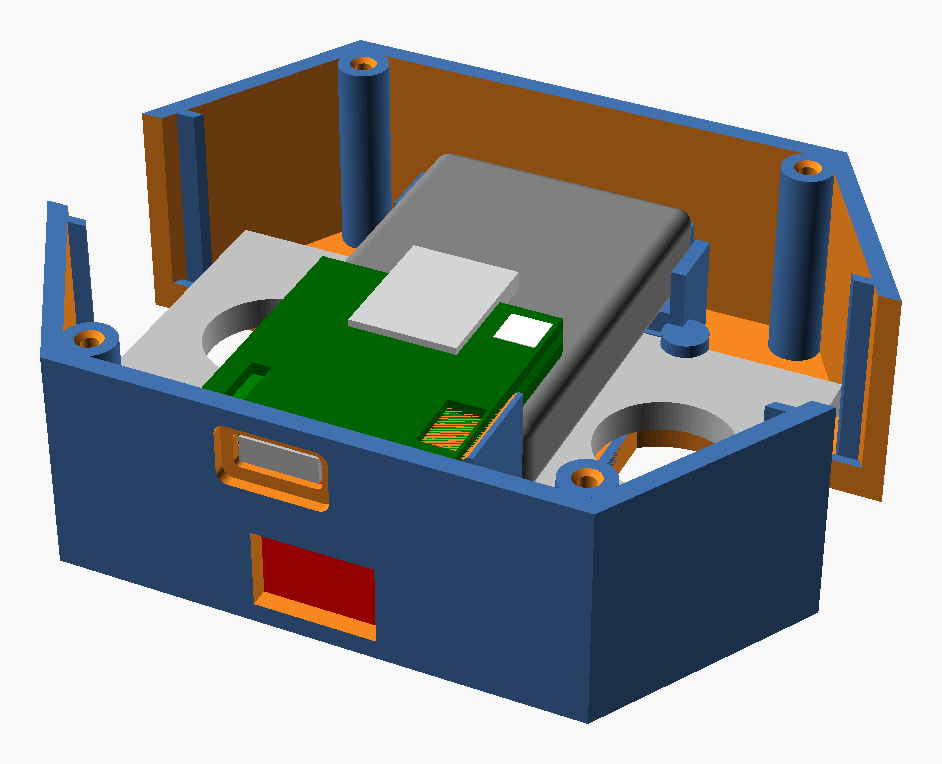
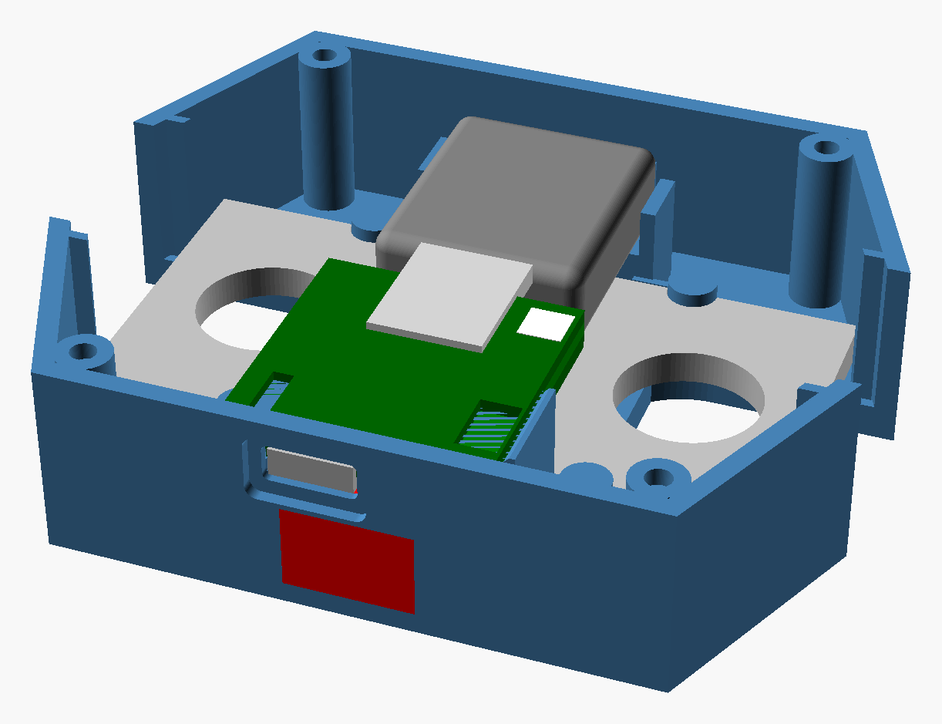
docs: match the book to case v3.2.0, firmware main and app v0.5.0 (#11)
* docs: list the battery for each case release

* docs: list the lid screws for each case release

* docs: describe the battery and wire placement for each V3 case

* docs: name case v3.2.0 for the 800 mAh battery and self-tapping screws

* docs: describe case v3.2.0 and re-render its model

* docs: describe the flash-only runner and the mock firmware build

* docs: describe the app v0.5.0 calibration check and point steps

diff --git a/src/assembly/crimpdeq/index.md b/src/assembly/crimpdeq/index.md
@@ -15,10 +15,14 @@ Most assembly steps are the same for PCB V1, V2, and V3. The main differences ar
 - [Crimpdeq 3D-printed case](./case.md) that matches your PCB revision
 - WH-C07 load cell, or a compatible load cell with similar dimensions
   - You can salvage one from a [crane scale](https://www.aliexpress.com/item/1005002719645426.html) ([Amazon alternative](https://www.amazon.es/dp/B08133JCM6)) or buy it separately.
-- [3.7 V, 2000 mAh LiPo battery](https://www.aliexpress.us/item/3256809404408618.html)
+- 3.7 V LiPo battery sized for your case release:
+  - Case `v3.1.0` and earlier: [2000 mAh, 10 × 34 × 50 mm](https://www.aliexpress.us/item/3256809404408618.html)
+  - Case `v3.2.0`: 800 mAh 102530, 10 × 25 × 30 mm, with both leads leaving one 25 mm end
 - [KCD11 two-terminal switch](https://www.aliexpress.us/item/2255800787248498.html)
 - Insulated hookup wire and heat-shrink tubing
-- 4 × M2.5 screws (M2.5×10 for the V3 case)
+- 4 screws for the lid:
+  - Case `v3.1.0` and earlier: M2.5 screws (M2.5×10 for the V3 case)
+  - Case `v3.2.0`: countersunk Phillips self-tapping screws sold as M2.5×10, measuring 2.4 mm across the thread, 4.8 mm across the head and 10.3 mm overall
 
 ### Tools
 
@@ -149,11 +153,19 @@ Resolve any unexpected short or open connection before proceeding.
 In the V3 case, the front wall is the one with the USB-C and switch openings.
 
 1. Place the load cell in the main body with the white strain-gauge cover facing up and its wires toward the front wall.
-2. Route the load-cell wires under the battery position to the front of the case, where the load-cell pads will sit.
-3. Place the battery on top of the load cell, with its leads at the rear. Run the leads up behind the battery and forward along its side to the `B-` and `B+` pads.
+2. Route the load-cell wires to the front of the case, where the load-cell pads will sit:
+   - Case `v3.1.0` and earlier: run them under the battery position.
+   - Case `v3.2.0`: run them forward from the strain-gauge cover, in front of the battery, then along the outer side of the support column nearest the load-cell pads.
+3. Place the battery with its leads at the rear:
+   - Case `v3.1.0` and earlier: lay it flat on top of the load cell.
+   - Case `v3.2.0`: set its rear end on the two pads behind the load cell; its front rests on the strain-gauge cover.
+
+   Run the leads up behind the battery and forward along its side to the `B-` and `B+` pads.
 4. Press the KCD11 switch into the switch opening.
 5. Hold the PCB with the ESP32-C3 module and LEDs facing up. Tilt it to insert the USB-C connector into the front-wall opening, then lower the board onto its two support columns in front of the battery.
 6. Check that no wire sits on top of the support columns or the battery, where the lid clamps press.
+
+The photos below show case `v3.1.0`.
 
 <p style="text-align:center;"><img src="../../assets/crimpdeq_v3_assembly_3.jpg" alt="PCB V3 seated in the case above the battery" width="75%"></p>
 
@@ -173,7 +185,8 @@ Turn the switch off before closing the case.
 
 1. Place the lid on the main enclosure.
    - On V3, align the lid's two LED holes over the RGB status LED and the red charging LED.
-2. Fasten it with the 4 × M2.5 screws.
+2. Fasten it with the 4 screws.
+   - On case `v3.2.0`, the self-tapping screws cut their own thread in the case. Stop as soon as each head sits flush. When refitting a screw, turn it backwards until it drops into its existing thread before tightening it.
 
 <p style="text-align:center;"><img src="../../assets/crimpdeq_v3_side.jpg" alt="V3 case front wall with the USB-C port and power switch" width="45%"></p>
 

diff --git a/src/assembly/crimpdeq/case.md b/src/assembly/crimpdeq/case.md
@@ -4,15 +4,17 @@ The case design is maintained in the [`crimpdeq-case` repository](https://github
 
 It consists of two parts (main body and lid) and includes mounting points for the load cell, battery, PCB, and switch.
 
-Download the printable files from the [repository releases](https://github.com/crimpdeq/crimpdeq-case/releases) and choose the case that matches your PCB revision: case `v0.4.0` for PCB V1, and the same major version as the PCB from V2 on (for example, case `v3.x` with PCB V3). Print both parts before assembly.
+Download the printable files from the [repository releases](https://github.com/crimpdeq/crimpdeq-case/releases) and choose the case that matches your PCB revision: case `v0.4.0` for PCB V1, and the same major version as the PCB from V2 on (for example, case `v3.x` with PCB V3). Each release includes `case_main.stl` and `case_lid.stl`; from `v3.1.0`, it also includes `crimpdeq-case.3mf`, a Bambu Studio project with both parts laid out and the print settings applied. Releases up to `v3.1.0` ship the STLs in assembly orientation, so lay the lid on its outer face before slicing. Print both parts before assembly.
 
 ## Revision 3 (Current)
 
-The Revision 3 case measures about 97 × 77 × 31 mm and has a hexagonal plan with a carabiner slot at each end. It is fastened with 4 × M2.5×10 screws.
+The latest Revision 3 case, [`v3.2.0`](https://github.com/crimpdeq/crimpdeq-case/releases/tag/v3.2.0), measures 103.3 × 77.4 × 25.5 mm and has a hexagonal plan with a carabiner slot at each end. It holds an 800 mAh 102530 battery and is fastened with 4 countersunk self-tapping screws that seat flush in the lid.
 
 - The PCB sits on two columns in front of the battery, with its USB-C connector in the front wall.
+- The battery rests on two pads behind the load cell. Lid hold-downs clamp it onto those pads, and a lid stop in front of it keeps it from sliding forward.
 - The lid has separate holes for the RGB status LED and the red charging LED.
-- Lid clamps hold the PCB and battery in place so they do not rattle.
 - Neither part needs support material. See the [repository README](https://github.com/crimpdeq/crimpdeq-case#build-the-bambu-studio-project) for the recommended print settings.
 
-![Revision 3 case model with the load cell, battery, and PCB](../../assets/case_v3_model.png)
+Case `v3.1.0` and earlier V3 releases hold the 2000 mAh battery on top of the load cell, partly under the PCB, and use M2.5×10 machine screws; `v3.1.0` measures 109.8 × 77.4 × 30.6 mm. The [assembly guide](./index.md#1-gather-parts-and-tools) lists the parts for each release.
+
+![Revision 3 case v3.2.0 model with the load cell, battery, PCB, and switch](../../assets/case_v3_model.png)

diff --git a/src/firmware/local.md b/src/firmware/local.md
@@ -39,18 +39,27 @@ probe-rs erase
 > ⚠ **Note**: Erasing is only needed once. Avoid erasing routinely, or you will lose your [calibration values](../calibration/index.md).
 
 ### Build and Flash Your Device
-With a [custom runner](https://doc.rust-lang.org/cargo/reference/config.html#targettriplerunner) configured in `.cargo/config.toml`, you can build, flash, and open a serial monitor with:
+The [custom runner](https://doc.rust-lang.org/cargo/reference/config.html#targettriplerunner) configured in `.cargo/config.toml` builds, flashes, and starts the firmware with:
 ```bash
 cargo run --release
 ```
-This opens a serial monitor. Logging is off by default (`DEFMT_LOG = "off"` in `.cargo/config.toml`).
+Logging is off by default (`DEFMT_LOG = "off"` in `.cargo/config.toml`), so the command exits once the firmware starts.
 
-To see log messages, set the [log level](https://defmt.ferrous-systems.com/filtering) in `.cargo/config.toml` or when running the command:
+To see log messages, set the [log level](https://defmt.ferrous-systems.com/filtering) in `.cargo/config.toml` or when running the command. The runner then keeps a log monitor open:
 ```bash
 DEFMT_LOG=debug cargo run --release
 ```
 
-> ⚠ **Note**: If your DevKit does not include USB-Serial-JTAG, flash over UART by updating the custom runner in `.cargo/config.toml` to use [`espflash`](https://github.com/esp-rs/espflash/tree/main/espflash#cargo-runner) instead of `probe-rs`.
+> ⚠ **Note**: On release tags up to `v3.0.0`, `cargo run --release` opens a serial monitor even with logging off.
+
+> ⚠ **Note**: If your DevKit does not include USB-Serial-JTAG, flash over UART by replacing the runner in `.cargo/config.toml` with [`espflash`](https://github.com/esp-rs/espflash/tree/main/espflash#cargo-runner) instead of `probe-rs`.
+
+### Try the Firmware Without a Load Cell
+On `main`, the `mock` feature simulates the load cell and battery, so you can test the firmware and apps on PCB V3 or on an [ESP32-C3 Rust board](https://github.com/esp-rs/esp-rust-board) without a load cell or battery:
+```bash
+cargo run --release --features mock
+```
+The simulated load cell repeats pulls up to 30 kg, the battery discharges to 20 % and charges back, and the device logs the idle timeout instead of going to sleep.
 
 ### Configuring Environment Variables
 

diff --git a/src/calibration/app.md b/src/calibration/app.md
@@ -16,17 +16,19 @@
 
 1. Connect to your Crimpdeq
    1. Launch the Crimpdeq app and grant the Bluetooth permission (Nearby devices on Android 12 and newer, location on Android 11 and older).
-   2. Tap **Scan** to pair with your device.
+   2. Tap **Scan**, then tap **Connect** next to your device.
    3. Once connected, tap the device status in the app bar to see the battery, voltage, and sample rate. The **Firmware** field shows the Progressor version that the device reports to apps (`2.0.4`), not the Crimpdeq firmware release.
 2. Add calibration points
    1. Open the **Calibration** tab.
    2. For each point:
      - Hang the corresponding load on the device (or leave it empty for zero).
      - Enter the weight value in the app and tap **Add Calibration Point**.
+     - Hold the weight still. The app adds the point once the load stays steady for one second, and reports when it does not settle.
    - **Recommended:** Add at least 2 points—**zero** (nothing hanging) and **full scale** (the maximum weight you expect to measure). The device supports up to 20 calibration points for finer accuracy.
 3. Check the result
-   1. After adding at least 2 points, the app displays the current calibration curve. Confirm it matches your expectations.
-   2. To discard a bad point, tap its delete icon. The device removes the point and refits the calibration to the remaining points (firmware `v3.x`).
+   1. After adding at least 2 points, the **Calibration Check** plots the points against the line the device applies and lists the error of each point. Two weights always fit the line, so add a point at a third weight to check the calibration; the app then shows the maximum and RMS error. Large errors point to a swinging load or a wrong weight value.
+   2. To discard a bad point, tap its remove icon and confirm. The device removes the point and refits the calibration to the remaining points (firmware `v3.x`).
+   3. To start over, tap **Reset Calibration To Default**. This restores the default calibration and deletes every stored point.
 
    ![Calibration Result](../assets/Screenshot_0.jpg)
 

diff --git a/src/firmware/details.md b/src/firmware/details.md
@@ -13,6 +13,9 @@ This module implements the Bluetooth Low Energy (BLE) functionality:
 - Handles advertising and connections
 - Defines the Progressor service with data point and control point characteristics
 
+### `mock`
+This module simulates the load cell and battery for the `mock` build, which runs without them (see [Try the Firmware Without a Load Cell](./local.md#try-the-firmware-without-a-load-cell)). In that build, `mock_battery_task` replaces `battery_gauge_task`.
+
 ### `progressor`
 The `progressor` module implements the [Tindeq API](https://tindeq.com/progressor_api/) used for BLE communication between the ESP32-C3 and a smartphone.
 

diff --git a/src/introduction.md b/src/introduction.md
@@ -25,7 +25,7 @@ These specs describe the current PCB V3 with its matching case and firmware.
   - 0.05 kg between 0 and 99 kg
   - 0.1 kg between 100 and 150 kg
 - Operating temperature: 0 to 40 C
-- Dimensions: 97 x 77 x 31 mm
+- Dimensions: 103.3 x 77.4 x 25.5 mm (case `v3.2.0`)
 - Uses the [Tindeq Progressor API](https://tindeq.com/progressor_api/)
 
 > ⚠ **Warning**: Some values depend on the load cell used in this project. If you use a different load cell, those values may change.
